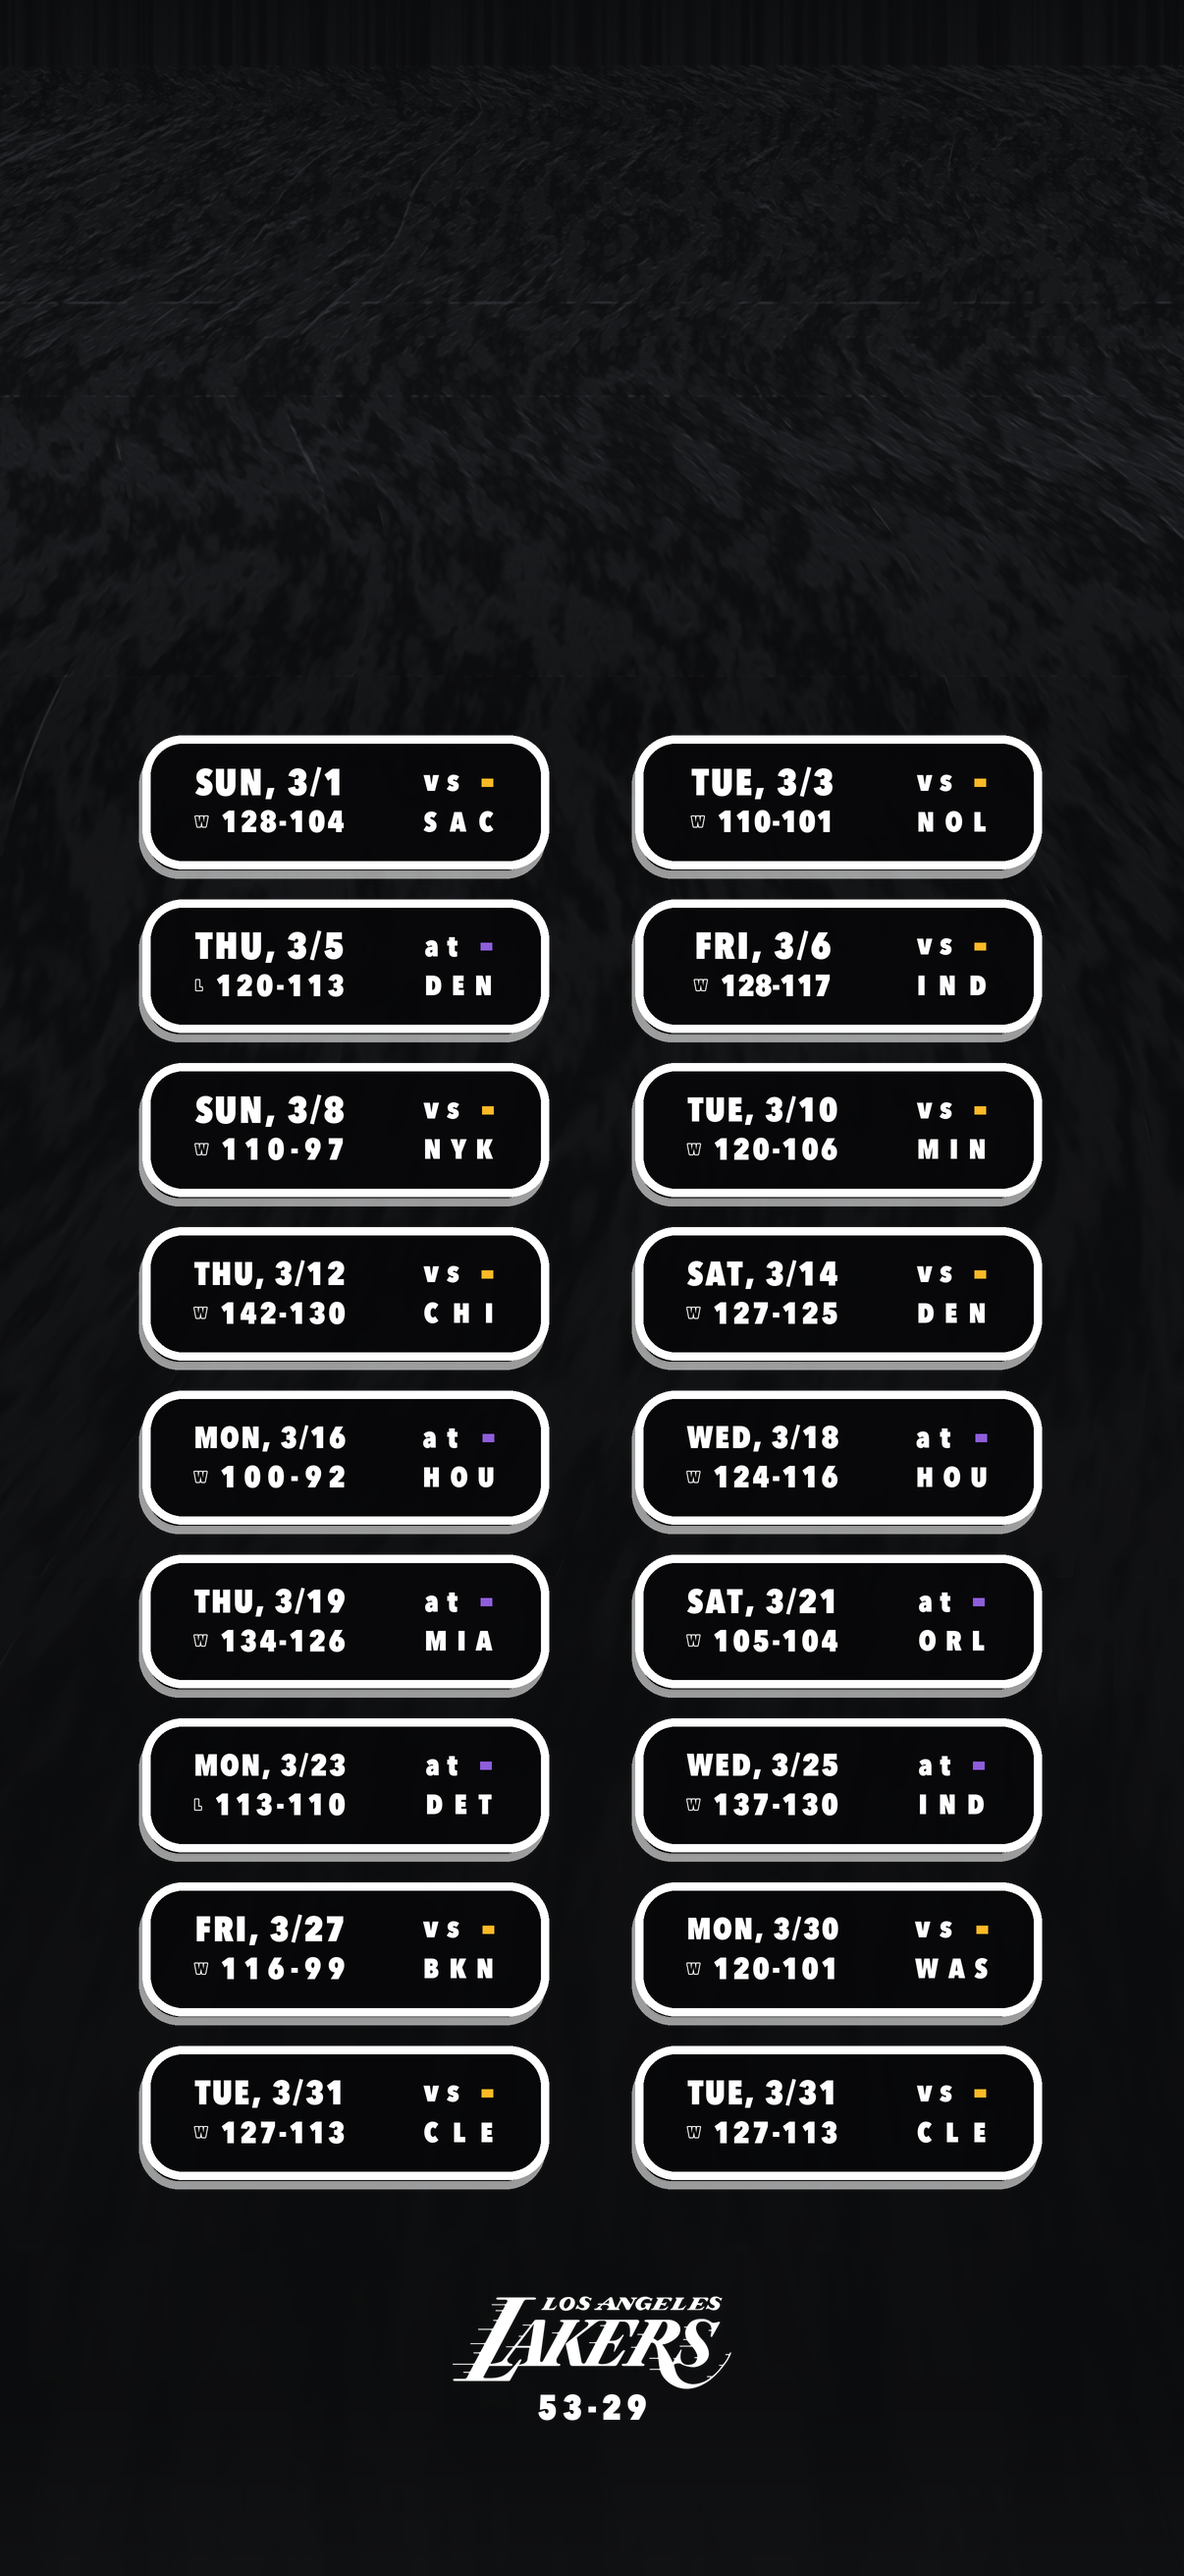
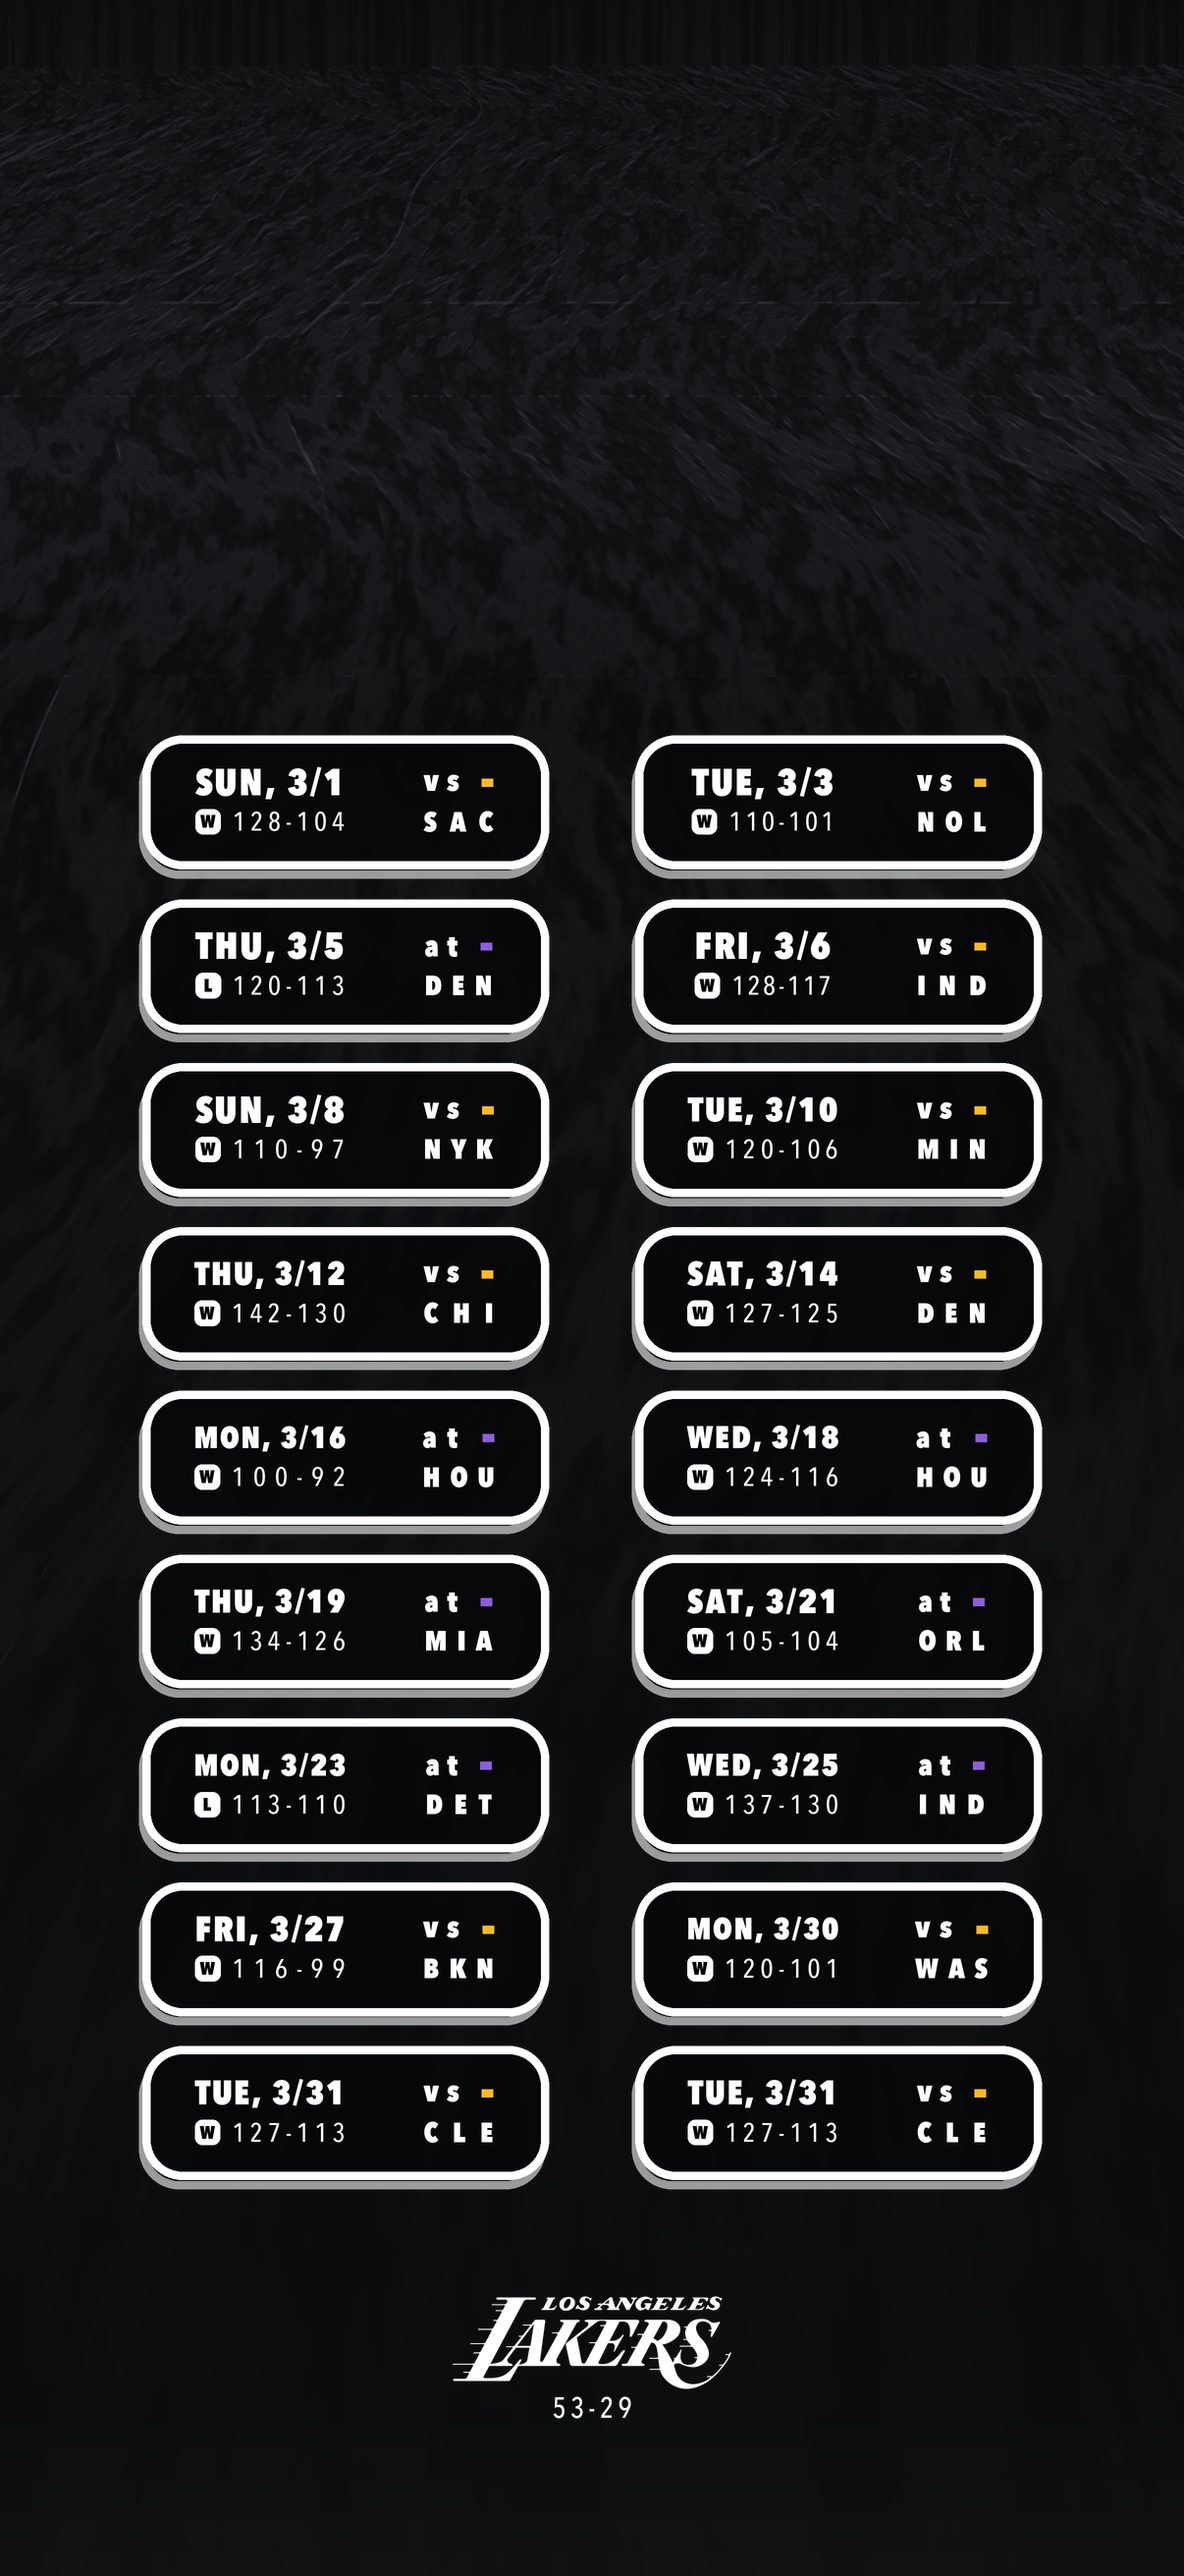
Add a light font weight; restyle W/L as a white badge
- Second weight ('light') for the score/time line and the season record, so
  the date reads as the dominant element in each chip.
- Score line drops from 0.2295 to 0.20 of chip height.
- W/L becomes a white rounded square with the letter knocked out in black,
  replacing the outlined-glyph treatment.
- Season record set smaller and lighter.

diff --git a/lakerscreen/render.py b/lakerscreen/render.py
@@ -38,8 +38,8 @@ class _Canvas:
         self.layer = Image.new("RGBA", (size[0] * ss, size[1] * ss), (0, 0, 0, 0))
         self.draw = ImageDraw.Draw(self.layer)
 
-    def font(self, size: float):
-        return assets.load_font(int(round(size * self.ss)))
+    def font(self, size: float, weight: str = "heavy"):
+        return assets.load_font(int(round(size * self.ss)), weight)
 
     def text_width(self, text: str, font, tracking: float = 0.0) -> float:
         return assets.tracked_width(font, text, tracking * self.ss) / self.ss
@@ -86,12 +86,20 @@ class _Canvas:
 
 def _text_run(c: _Canvas, text: str, size: float, fill, tracking: float = 0.0,
               gap: float = 0.0, stroke: float = 0.0, stroke_fill=None,
-              fixed_gap: bool = False) -> Run:
-    font = c.font(size)
+              fixed_gap: bool = False, weight: str = "heavy") -> Run:
+    font = c.font(size, weight)
     return {"kind": "text", "text": text, "font": font, "fill": fill,
             "tracking": tracking, "gap": gap, "stroke": stroke,
             "stroke_fill": stroke_fill, "fixed_gap": fixed_gap,
             "w": c.text_width(text, font, tracking)}
+
+
+def _badge_run(c: _Canvas, letter: str, size: float, radius: float, fill, text_fill,
+               font_size: float, gap: float = 0.0, fixed_gap: bool = False) -> Run:
+    """A filled rounded square with a letter knocked out of it."""
+    return {"kind": "badge", "text": letter, "size": size, "radius": radius,
+            "fill": fill, "text_fill": text_fill, "font": c.font(font_size),
+            "gap": gap, "fixed_gap": fixed_gap, "w": size}
 
 
 def _swatch_run(width: float, height: float, fill, gap: float = 0.0) -> Run:
@@ -149,6 +157,12 @@ def _draw_runs(c: _Canvas, cx: float, cy: float, runs: Sequence[Run]) -> None:
                    tracking=float(r["tracking"]), anchor="lc",
                    stroke_width=float(r.get("stroke", 0.0)),
                    stroke_fill=r.get("stroke_fill"))
+        elif r["kind"] == "badge":
+            sz = float(r["size"])
+            c.rounded_rect((x, cy - sz / 2.0, x + sz, cy + sz / 2.0),
+                           float(r["radius"]), fill=r["fill"])
+            c.text((x + sz / 2.0, cy), str(r["text"]), r["font"], r["text_fill"],
+                   anchor="mc")
         else:
             hh, ww = float(r["h"]), float(r["w"])
             c.rect((x, cy - hh / 2.0, x + ww, cy + hh / 2.0), fill=r["fill"])
@@ -197,14 +211,14 @@ def _draw_chip(c: _Canvas, box, g: Game, cfg: Config) -> None:
         score = g.score_line if cfg.show_scores else ""
 
         def bottom(s: float) -> List[Run]:
-            # Outlined badge: black fill, white keyline, set smaller than the
-            # score and held off it by a wider gap.
-            runs = [_text_run(c, letter, s * lay.result_size, pal.result_fill,
-                              gap=s * lay.result_gap,
-                              stroke=s * lay.result_size * lay.result_stroke,
-                              stroke_fill=pal.result_outline, fixed_gap=True)]
+            # White rounded square with the letter knocked out in black.
+            bs = h * lay.badge_size
+            runs = [_badge_run(c, letter, bs, bs * lay.badge_radius,
+                               pal.badge_fill, pal.badge_text,
+                               bs * lay.badge_font,
+                               gap=s * lay.result_gap, fixed_gap=True)]
             if score:
-                runs.append(_text_run(c, score, s, pal.text))
+                runs.append(_text_run(c, score, s, pal.text, weight="light"))
             return runs
     elif g.state == "in":
         live = "%d-%d" % (g.team_score, g.opp_score) \
@@ -213,11 +227,11 @@ def _draw_chip(c: _Canvas, box, g: Game, cfg: Config) -> None:
         def bottom(s: float) -> List[Run]:
             runs = [_text_run(c, "LIVE", s, pal.live, tracking=s * 0.06, gap=s * 0.30)]
             if live:
-                runs.append(_text_run(c, live, s * 0.95, pal.text_dim))
+                runs.append(_text_run(c, live, s * 0.95, pal.text_dim, weight="light"))
             return runs
     else:
         def bottom(s: float) -> List[Run]:
-            return [_text_run(c, _fmt_time(g), s, pal.text)]
+            return [_text_run(c, _fmt_time(g), s, pal.text, weight="light")]
 
     bot_left = _fit(bottom, h * lay.time_size, lw, floor)
 
@@ -255,8 +269,9 @@ def _draw_footer(c: _Canvas, size, month_key: str, record: Tuple[int, int],
     if wordmark is not None:
         c.paste_centered(wordmark, (cx, H * lay.wordmark_y), W * lay.wordmark_width)
 
-    c.text((cx, H * lay.record_y), "%d-%d" % record, c.font(H * lay.record_size),
-           pal.text, tracking=H * lay.record_size * lay.record_tracking, anchor="mc")
+    c.text((cx, H * lay.record_y), "%d-%d" % record,
+           c.font(H * lay.record_size, "light"), pal.text,
+           tracking=H * lay.record_size * lay.record_tracking, anchor="mc")
 
 
 def _resolve_month(cfg: Config) -> str:

diff --git a/lakerscreen/assets.py b/lakerscreen/assets.py
@@ -12,40 +12,54 @@ from PIL import Image, ImageDraw, ImageFont
 ROOT = os.path.dirname(os.path.dirname(os.path.abspath(__file__)))
 CACHE_DIR = os.path.join(ROOT, "assets", "cache")
 
-# (path, ttc face index). First one that loads wins. The reference design uses a
-# heavy condensed grotesque; these are the closest faces shipped with macOS.
-FONT_CANDIDATES: Sequence[Tuple[str, int]] = (
-    ("/System/Library/Fonts/Avenir Next Condensed.ttc", 8),   # Heavy
-    ("/System/Library/Fonts/Avenir Next Condensed.ttc", 0),   # Bold
-    ("/System/Library/Fonts/Supplemental/DIN Condensed Bold.ttf", 0),
-    ("/System/Library/Fonts/HelveticaNeue.ttc", 9),           # Condensed Black
-    ("/System/Library/Fonts/HelveticaNeue.ttc", 4),           # Condensed Bold
-    ("/System/Library/Fonts/Supplemental/Arial Narrow Bold.ttf", 0),
-    # Linux fallbacks, for rendering in CI.
-    ("/usr/share/fonts/truetype/liberation/LiberationSansNarrow-Bold.ttf", 0),
-    ("/usr/share/fonts/truetype/dejavu/DejaVuSansCondensed-Bold.ttf", 0),
-    ("/usr/share/fonts/truetype/dejavu/DejaVuSans-Bold.ttf", 0),
-)
+# Two weights: chip headings are set heavy, the score/time line lighter so the
+# date reads as the dominant element. Each entry is (path, ttc face index) and
+# the first that loads wins.
+FONT_SETS: Dict[str, Sequence[Tuple[str, int]]] = {
+    "heavy": (
+        ("/System/Library/Fonts/Avenir Next Condensed.ttc", 8),   # Heavy
+        ("/System/Library/Fonts/Avenir Next Condensed.ttc", 0),   # Bold
+        ("/System/Library/Fonts/Supplemental/DIN Condensed Bold.ttf", 0),
+        ("/System/Library/Fonts/HelveticaNeue.ttc", 9),           # Condensed Black
+        ("/System/Library/Fonts/HelveticaNeue.ttc", 4),           # Condensed Bold
+        ("/System/Library/Fonts/Supplemental/Arial Narrow Bold.ttf", 0),
+        ("/usr/share/fonts/truetype/liberation/LiberationSansNarrow-Bold.ttf", 0),
+        ("/usr/share/fonts/truetype/dejavu/DejaVuSansCondensed-Bold.ttf", 0),
+        ("/usr/share/fonts/truetype/dejavu/DejaVuSans-Bold.ttf", 0),
+    ),
+    "light": (
+        ("/System/Library/Fonts/Avenir Next Condensed.ttc", 5),   # Medium
+        ("/System/Library/Fonts/Avenir Next Condensed.ttc", 7),   # Regular
+        ("/System/Library/Fonts/HelveticaNeue.ttc", 10),          # Medium
+        ("/System/Library/Fonts/Supplemental/Arial Narrow.ttf", 0),
+        ("/usr/share/fonts/truetype/liberation/LiberationSansNarrow-Regular.ttf", 0),
+        ("/usr/share/fonts/truetype/dejavu/DejaVuSansCondensed.ttf", 0),
+        ("/usr/share/fonts/truetype/dejavu/DejaVuSans.ttf", 0),
+    ),
+}
 
 _font_override: Optional[Tuple[str, int]] = None
-_font_variation: Optional[str] = None
+_variations: Dict[str, Optional[str]] = {"heavy": None, "light": None}
 
 
-def set_font(path: str, index: int = 0, variation: Optional[str] = None) -> None:
+def set_font(path: str, index: int = 0, variation: Optional[str] = None,
+             light_variation: Optional[str] = None) -> None:
     """Point the renderer at a specific font file (e.g. a downloaded Oswald).
 
-    `variation` names an instance inside a variable font, e.g. "Bold".
+    `variation` / `light_variation` name instances inside a variable font,
+    e.g. "Bold" and "Regular".
     """
-    global _font_override, _font_variation
+    global _font_override
     _font_override = (path, index)
-    _font_variation = variation
+    _variations["heavy"] = variation
+    _variations["light"] = light_variation or variation
     load_font.cache_clear()
 
 
-@lru_cache(maxsize=256)
-def load_font(size: int) -> ImageFont.FreeTypeFont:
+@lru_cache(maxsize=512)
+def load_font(size: int, weight: str = "heavy") -> ImageFont.FreeTypeFont:
     size = max(1, int(size))
-    candidates: List[Tuple[str, int]] = list(FONT_CANDIDATES)
+    candidates: List[Tuple[str, int]] = list(FONT_SETS.get(weight, FONT_SETS["heavy"]))
     if _font_override:
         candidates.insert(0, _font_override)
     for path, index in candidates:
@@ -55,9 +69,10 @@ def load_font(size: int) -> ImageFont.FreeTypeFont:
             font = ImageFont.truetype(path, size, index=index)
         except Exception:
             continue
-        if _font_variation and _font_override and path == _font_override[0]:
+        variation = _variations.get(weight)
+        if variation and _font_override and path == _font_override[0]:
             try:
-                font.set_variation_by_name(_font_variation)
+                font.set_variation_by_name(variation)
             except Exception:
                 pass
         return font

diff --git a/lakerscreen/config.py b/lakerscreen/config.py
@@ -42,8 +42,8 @@ class Palette:
     chip_shadow: RGBA = (255, 255, 255, 150)  # the offset "sticker stack" edge
     text: RGBA = (255, 255, 255, 255)
     text_dim: RGBA = (176, 176, 182, 255)
-    result_fill: RGBA = (0, 0, 0, 255)          # W/L badge: black...
-    result_outline: RGBA = (255, 255, 255, 255)  # ...with a white keyline
+    badge_fill: RGBA = (255, 255, 255, 255)     # W/L badge: white square...
+    badge_text: RGBA = (0, 0, 0, 255)           # ...with a black letter
     live: RGBA = (255, 72, 72, 255)
 
 
@@ -75,7 +75,7 @@ class Layout:
     line1_y: float = 0.355              # vertical centres of the two text lines
     line2_y: float = 0.645
     date_size: float = 0.2800           # font sizes, of chip height
-    time_size: float = 0.2295
+    time_size: float = 0.2000
     vs_size: float = 0.2216
     team_size: float = 0.2103
     dot_w: float = 0.085                # home/away swatch, of chip height
@@ -84,9 +84,10 @@ class Layout:
     date_tracking: float = 0.050        # letter-spacing, as a fraction of font size
     vs_tracking: float = 0.250
     team_tracking: float = 0.344
-    result_size: float = 0.480          # W/L size relative to the score
+    badge_size: float = 0.190           # W/L badge square, of chip height
+    badge_radius: float = 0.300         # corner radius, of badge size
+    badge_font: float = 0.720           # letter size inside the badge, of badge size
     result_gap: float = 0.45            # space between the W/L badge and the score
-    result_stroke: float = 0.060        # W/L outline weight, of its font size
     min_shrink: float = 0.62            # floor for auto-shrinking an overlong line
     # Footer.
     grid_bottom_pad: float = 0.0
@@ -95,7 +96,7 @@ class Layout:
     record_y: float = 0.9345
     month_y: float = 0.8330
     month_size: float = 0.0215          # of image height
-    record_size: float = 0.0138
+    record_size: float = 0.0112
     month_tracking: float = 0.300
     record_tracking: float = 0.150
 

diff --git a/generate.py b/generate.py
@@ -38,6 +38,7 @@ def parse_args(argv=None) -> argparse.Namespace:
     p.add_argument("--font", help="path to a .ttf/.otf to use instead of the system font")
     p.add_argument("--font-index", type=int, default=0, help="face index inside a .ttc")
     p.add_argument("--font-variation", help='named instance in a variable font, e.g. "Bold"')
+    p.add_argument("--font-variation-light", help='lighter instance for the score line, e.g. "Regular"')
     p.add_argument("--ttl", type=int, default=900,
                    help="seconds to reuse cached ESPN data (0 = always refetch)")
     p.add_argument("-q", "--quiet", action="store_true")
@@ -47,7 +48,8 @@ def parse_args(argv=None) -> argparse.Namespace:
 def main(argv=None) -> int:
     args = parse_args(argv)
     if args.font:
-        assets.set_font(args.font, args.font_index, args.font_variation)
+        assets.set_font(args.font, args.font_index, args.font_variation,
+                        args.font_variation_light)
 
     size = None
     if args.size:
